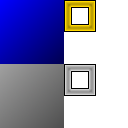
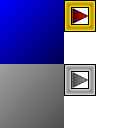
Add missing replay files.  Introduce line marker graphics, homemade GOAL sign

Changed region(s): [[0.5312, 0.5625, 0.6875, 0.6875], [0.5625, 0.0625, 0.6875, 0.1875]]

diff --git a/source/replay_helpers.cpp b/source/replay_helpers.cpp
@@ -1,0 +1,82 @@
+#include "replay_helpers.hpp"
+#include <cstring>
+#include "recorder.hpp"
+
+u32 ReplayInputDataSource::trigger() const
+{
+    if (index >= data.size()) return 0;
+    return data[index].trigger;
+}
+
+u32 ReplayInputDataSource::held() const
+{
+    if (index >= data.size()) return 0;
+    return data[index].held;
+}
+
+void ReplayInputDataSource::update()
+{
+    if (index >= data.size()) return;
+    frame++;
+    if (frame - start > data[index].frames)
+    {
+        start += data[index].frames;
+        index++;
+    }
+}
+
+bool load_replay(const std::string& filename, ReplayInfo& info)
+{
+    std::ifstream file(filename.c_str(), std::ios::binary);
+    return load_replay(file, info);
+}
+
+bool load_replay(std::istream& file, ReplayInfo& info)
+{
+    char magic[4];
+
+    file.read(magic, 4);
+    if (memcmp(magic, "BBB", 4) != 0)
+        return false;
+
+    char major = file.get();
+    char minor = file.get();
+
+    if (major != RECORDER_MAJOR_VERSION)
+        return false;
+    if (minor != RECORDER_MINOR_VERSION)
+        return false;
+
+    info.rows = file.get();
+    info.columns = file.get();
+    info.type = file.get();
+    info.difficulty = file.get();
+    info.level = file.get();
+
+    std::vector<Panel::Type> initial;
+    unsigned int size = info.rows * info.columns;
+    initial.reserve(size);
+    for (unsigned int i = 0; i < size; i++)
+        initial.push_back(static_cast<Panel::Type>(file.get()));
+
+    file.read(reinterpret_cast<char*>(&size), sizeof(size));
+    std::vector<Panel::Type> next;
+    next.reserve(size);
+    for (unsigned int i = 0; i < size; i++)
+        next.push_back(static_cast<Panel::Type>(file.get()));
+
+    info.source.reset(new ReplayPanelSource(info.rows, info.columns, initial, next));
+
+    file.read(reinterpret_cast<char*>(&size), sizeof(size));
+    std::vector<ReplayInputItem> items;
+    for (unsigned int i = 0; i < size; i++)
+    {
+        ReplayInputItem move;
+        file.read(reinterpret_cast<char*>(&move), sizeof(move));
+        items.emplace_back(move);
+    }
+
+    info.input.reset(new ReplayInputDataSource(items));
+
+    return true;
+}

diff --git a/source/replay_helpers.hpp b/source/replay_helpers.hpp
@@ -1,0 +1,68 @@
+#ifndef REPLAY_HELPERS_HPP
+#define REPLAY_HELPERS_HPP
+
+#include <fstream>
+#include <iostream>
+#include <memory>
+#include <vector>
+
+#include <util/input_data_source_interface.hpp>
+
+#include "panel_source.hpp"
+
+struct ReplayInputItem
+{
+    u32 trigger;
+    u32 held;
+    u32 frames;
+};
+
+class ReplayPanelSource : public PanelSource
+{
+public:
+    ReplayPanelSource(int rows, int columns, const std::vector<Panel::Type>& start, const std::vector<Panel::Type> next_set) :
+        PanelSource(rows, columns), initial(start), next(next_set), index(0) {}
+    ~ReplayPanelSource() {}
+    std::vector<Panel::Type> board() override {return initial;}
+    Panel::Type panel() override
+    {
+        if (index >= next.size()) return Panel::EMPTY;
+        return next[index++];
+    }
+private:
+    std::vector<Panel::Type> initial;
+    std::vector<Panel::Type> next;
+    unsigned int index;
+};
+
+class ReplayInputDataSource : public InputDataSourceInterface
+{
+public:
+    ReplayInputDataSource(const std::vector<ReplayInputItem>& items) : data(items), index(0) {}
+    ~ReplayInputDataSource() {}
+    u32 trigger() const override;
+    u32 held() const override;
+    void update() override;
+private:
+    std::vector<ReplayInputItem> data;
+    unsigned int index;
+    unsigned int start;
+    unsigned int frame;
+
+};
+
+struct ReplayInfo
+{
+    std::unique_ptr<ReplayPanelSource> source;
+    std::unique_ptr<ReplayInputDataSource> input;
+    char rows;
+    char columns;
+    char type;
+    char difficulty;
+    char level;
+};
+
+bool load_replay(const std::string& filename, ReplayInfo& info);
+bool load_replay(std::istream& file, ReplayInfo& info);
+
+#endif

diff --git a/source/scenes/game_scene.cpp b/source/scenes/game_scene.cpp
@@ -88,6 +88,7 @@ void GameScene::init_sprites()
     selector.create("romfs:/graphics/game/selector.png");
     border.create("romfs:/graphics/borders/red.png");
     debug.create("romfs:/graphics/game/debug_text.png");
+    line_markers.create("romfs:/graphics/game/line_markers.png");
 
     frames.reset();
 }
@@ -339,6 +340,29 @@ void GameScene::draw_board()
     int starty = BOTTOM_SCREEN_HEIGHT - border.height();
     border.draw(startx, starty);
 }
+
+void GameScene::draw_line_marker(int line, LineMarker type)
+{
+    int bottom_line = table->get_lines();
+    int top_line = bottom_line - table->height();
+
+    if (!(line >= top_line && line <= bottom_line))
+        return;
+
+    int offset_line = top_line - line;
+    int column_underlined = frame % table->width();
+
+    int startx = (BOTTOM_SCREEN_WIDTH - border.width()) / 2 + 9 + 4;
+    int starty = BOTTOM_SCREEN_HEIGHT - border.height() + 9;
+    const int panel_size = PANEL_SIZE;
+    int offset = table->get_rise();
+
+    int x = startx + table->width() * panel_size + 6;
+    int y = starty + (offset_line + 1) * panel_size - offset;
+
+    line_markers.draw(x, y, 0, type * 16, 40, 16);
+}
+
 
 void GameScene::draw_debug_top()
 {

diff --git a/source/scenes/game_scene.hpp b/source/scenes/game_scene.hpp
@@ -31,6 +31,13 @@ enum TimingMode
     MOVES = 2,
 };
 
+/// Represents the type of line marker to draw
+enum LineMarker
+{
+    CLEAR = 0,
+    GOAL = 1,
+};
+
 /// TODO clean up this class and provide a much clearer interface to write other modes.
 class GameScene : public Scene2D
 {
@@ -105,6 +112,7 @@ protected:
     void draw_selector();
     void draw_board();
     void draw_panels();
+    void draw_line_marker(int line, LineMarker type);
     virtual void draw_debug_bottom();
 
     // Configuration
@@ -118,6 +126,7 @@ protected:
     Texture selector;
     Texture border;
     Texture debug;
+    Texture line_markers;
 
     // Core game stuff
     std::unique_ptr<PanelTable> table;

diff --git a/source/scenes/score_scene.cpp b/source/scenes/score_scene.cpp
@@ -121,6 +121,13 @@ void ScoreScene::draw_game_top()
     info.draw();
 }
 
+void ScoreScene::draw_game_bottom()
+{
+    GameScene::draw_game_bottom();
+    if (config.time_mode == LINES)
+        draw_line_marker(config.value, GOAL);
+}
+
 void ScoreScene::draw_gameover_top()
 {
     game_over.draw();

diff --git a/source/scenes/score_scene.hpp b/source/scenes/score_scene.hpp
@@ -23,6 +23,7 @@ protected:
     void update_on_gameover() override;
 
     void draw_game_top() override;
+    void draw_game_bottom() override;
     void draw_gameover_top() override;
 private:
     ScoreInfoWindow info;
